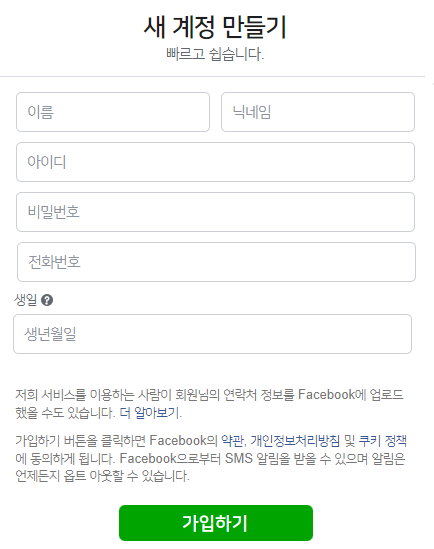
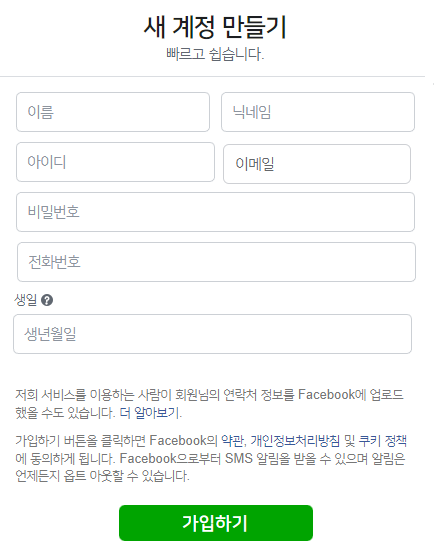
회원가입 성공

Changed region(s): [[0.5092, 0.2477, 0.9585, 0.3406]]

diff --git a/NetworkProject/src/JoinFrame.java b/NetworkProject/src/JoinFrame.java
@@ -4,6 +4,7 @@ import javax.swing.border.Border;
 
 import java.awt.*;
 import java.awt.event.*;
+import java.io.IOException;
 import java.sql.*;
 
 public class JoinFrame extends JFrame implements ActionListener {
@@ -20,14 +21,17 @@ public class JoinFrame extends JFrame implements ActionListener {
 	JTextField phoneNumber;
 	JTextField birth;
 	JPasswordField pw;
+	JTextField em;
 
 	/* Button */
 	JButton suBtn;
 	User us = null;
+	
+
 	JoinFrame(User _us) {
-		
-		us=_us;
-		
+
+		us = _us;
+
 		icon = new ImageIcon("src/Image/signupFrame.png");
 		Image img = icon.getImage();
 		Image changeImg = img.getScaledInstance(434, 549, java.awt.Image.SCALE_SMOOTH);
@@ -48,7 +52,7 @@ public class JoinFrame extends JFrame implements ActionListener {
 			public void setBorder(Border border) {
 			}
 		};
-		id.setBounds(73, 156, 327, 15);
+		id.setBounds(73, 156, 130, 15);
 		signup.add(id);
 		id.setOpaque(false);
 		id.setColumns(10);
@@ -81,7 +85,7 @@ public class JoinFrame extends JFrame implements ActionListener {
 		signup.add(nickname);
 		nickname.setOpaque(false);
 		nickname.setColumns(10);
-		
+
 		phoneNumber = new JTextField() {
 			@Override
 			public void setBorder(Border border) {
@@ -97,7 +101,7 @@ public class JoinFrame extends JFrame implements ActionListener {
 			public void setBorder(Border border) {
 			}
 		};
-		birth .setBounds(80, 329, 308, 14);
+		birth.setBounds(80, 329, 308, 14);
 		signup.add(birth);
 		birth.setOpaque(false);
 		birth.setColumns(10);
@@ -110,7 +114,7 @@ public class JoinFrame extends JFrame implements ActionListener {
 		signup.add(suBtn);
 
 		/* Panel 추가 작업 */
-		add(signup);
+		getContentPane().add(signup);
 
 		/* Button 이벤트 리스너 추가 */
 
@@ -119,35 +123,68 @@ public class JoinFrame extends JFrame implements ActionListener {
 		setSize(440, 590);
 		setLocationRelativeTo(null);
 		signup.setLayout(null);
+		
+		em = new JTextField(){
+			@Override
+			public void setBorder(Border border) {
+			}
+		};
+		em.setBounds(278, 158, 127, 18);
+		signup.add(em);
+		em.setColumns(10);
 		setResizable(false);
 		setVisible(true);
 	}
 
+	// JOptionPane.showMessageDialog(null, "회원가입에 성공하였습니다");
+	// dispose();
+
 	/* Button 이벤트 리스너 */
-	
+
 	public void actionPerformed(ActionEvent e) {
 		String uid = id.getText();
 		String upass = "";
+		String uName = name.getText();
+		String uNN = nickname.getText();
+		String uPN = phoneNumber.getText();
+		String ubirth = birth.getText();
+		String ema = em.getText();
+
 		for (int i = 0; i < pw.getPassword().length; i++) {
 			upass = upass + pw.getPassword()[i];
 		}
 		if (e.getSource() == suBtn) {
-			if (uid.equals("") || upass.equals("")) {
+			if (uid.equals("") || upass.equals("") || uPN.equals("") || uName.equals("") || uNN.equals("") || ema.equals("")
+					|| ubirth.equals("")) {
 				JOptionPane.showMessageDialog(null, "모든 정보를 기입해주세요", "회원가입 실패", JOptionPane.ERROR_MESSAGE);
 				System.out.println("회원가입 실패 > 회원정보 미입력");
 			}
 
-			else if (!uid.equals("") && !upass.equals("")) {
-				if (joinCheck(uid, upass)) {
-					System.out.println("회원가입 성공");
-					JOptionPane.showMessageDialog(null, "회원가입에 성공하였습니다");
-					dispose();
-				} else {
-					System.out.println("회원가입 실패");
-					JOptionPane.showMessageDialog(null, "회원가입에 실패하였습니다");
-					id.setText("");
-					pw.setText("");
+			else if (!uid.equals("") && !upass.equals("") && !uPN.equals("") && !ema.equals("") && !uName.equals("") && !uNN.equals("")
+					&& !ubirth.equals("")) {
+				New_Client.pw.println("59982#" + uName + "#" + uNN + "#" + uid + "#" + upass + "#" + uPN + "#" + ubirth + "#" + ema);
+				
+				try {
+					int check = Integer.parseInt(New_Client.br.readLine());
+					
+					if(check==1)
+					{
+						JOptionPane.showMessageDialog(null, "회원가입에 성공하였습니다");
+					}
+					
+					if(check==0)
+					{
+						JOptionPane.showMessageDialog(null, "오류입니다.", "회원가입 실패", JOptionPane.ERROR_MESSAGE);
+					}
+				} catch (NumberFormatException e1) {
+					// TODO Auto-generated catch block
+					e1.printStackTrace();
+				} catch (IOException e1) {
+					// TODO Auto-generated catch block
+					e1.printStackTrace();
 				}
+				
+				
 			}
 		}
 
@@ -155,35 +192,5 @@ public class JoinFrame extends JFrame implements ActionListener {
 			System.out.println("오류입니다");
 		}
 
-	}
-
-	boolean joinCheck(String _i, String _p) {
-		boolean flag = false;
-
-		String id = _i;
-		String pw = _p;
-		Connection con = null;
-		Statement stmt = null;
-		String url = "jdbc:mysql://localhost/network?serverTimezone=Asia/Seoul"; // network 스키마
-		String user = "root"; // 데이터베이스 아이디
-		String passwd = "12345"; // 데이터베이스 비번
-
-		try {
-			Class.forName("com.mysql.cj.jdbc.Driver");
-			con = DriverManager.getConnection(url, user, passwd);
-			stmt = con.createStatement();
-			String insertStr = "INSERT INTO client_list (client_id, client_password) VALUES('" + id + "', '" + pw
-					+ "')";
-			stmt.executeUpdate(insertStr);
-			insertStr = "INSERT INTO login_check VALUES('" + id + "', 'logout')";
-			stmt.executeUpdate(insertStr);
-			flag = true;
-			System.out.println("회원가입 성공");
-		} catch (Exception e) {
-			flag = false;
-			System.out.println("회원가입 실패 > " + e.toString());
-		}
-
-		return flag;
 	}
 }

diff --git a/NetworkProject/src/New_Server.java b/NetworkProject/src/New_Server.java
@@ -92,6 +92,12 @@ public class New_Server {
 			{
 				SQLInterface.validPWChange(division[1], division[2], division[3]);
 			}
+			
+			else if(division[0].equals("59982"))
+			{
+				int check = join(division[1],division[2],division[3],division[4],division[5],division[6],division[7]);
+				pw.println(check);
+			}
 		}
 	}
 
@@ -374,5 +380,31 @@ public class New_Server {
 		}
 
 	}
+	
+	
+	public Integer join(String name, String nickname, String id, String pw, String pn, String birth, String email)
+	{
+		Connection con = null;
+		Statement stmt = null;
+		String url = "jdbc:mysql://localhost/network?serverTimezone=Asia/Seoul"; // network 스키마
+		String user = "root"; // 데이터베이스 아이디
+		String passwd = "12345"; // 데이터베이스 비번
 
+		try {
+			Class.forName("com.mysql.cj.jdbc.Driver");
+			con = DriverManager.getConnection(url, user, passwd);
+			stmt = con.createStatement();
+			String insertStr = "INSERT INTO client_list (client_id, client_password, client_name, client_email, client_phone, client_nick, client_birth) VALUES ('" + id+ "','" + pw + "','" + name + "','" + email + "','" + pn +"','" + nickname + "','" + birth + "')";
+			stmt.executeUpdate(insertStr);
+			insertStr = "INSERT INTO login_check VALUES('" + id + "', 'logout')";
+			stmt.executeUpdate(insertStr);
+			int k = 1;
+			return k;
+			
+		} catch (Exception e) {
+			int k = 0;
+			System.out.println("회원가입 실패 > " + e.toString());
+			return 0;
+		}
+	}
 }
